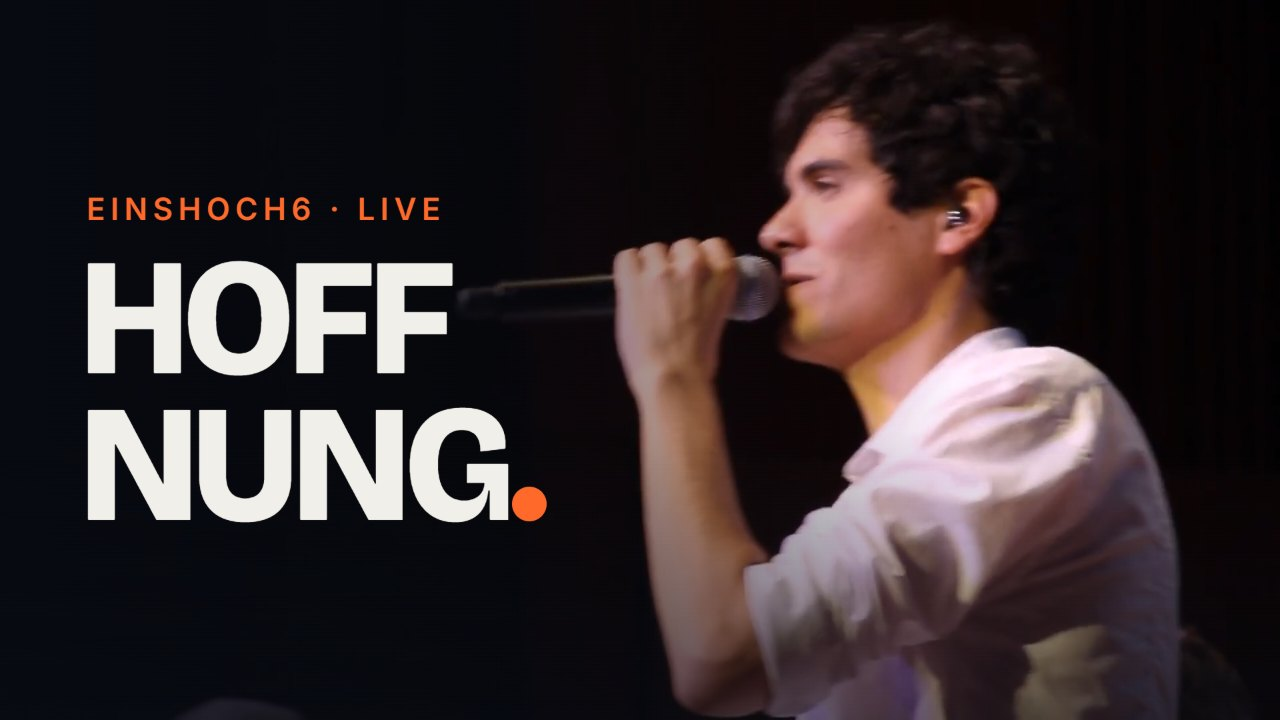
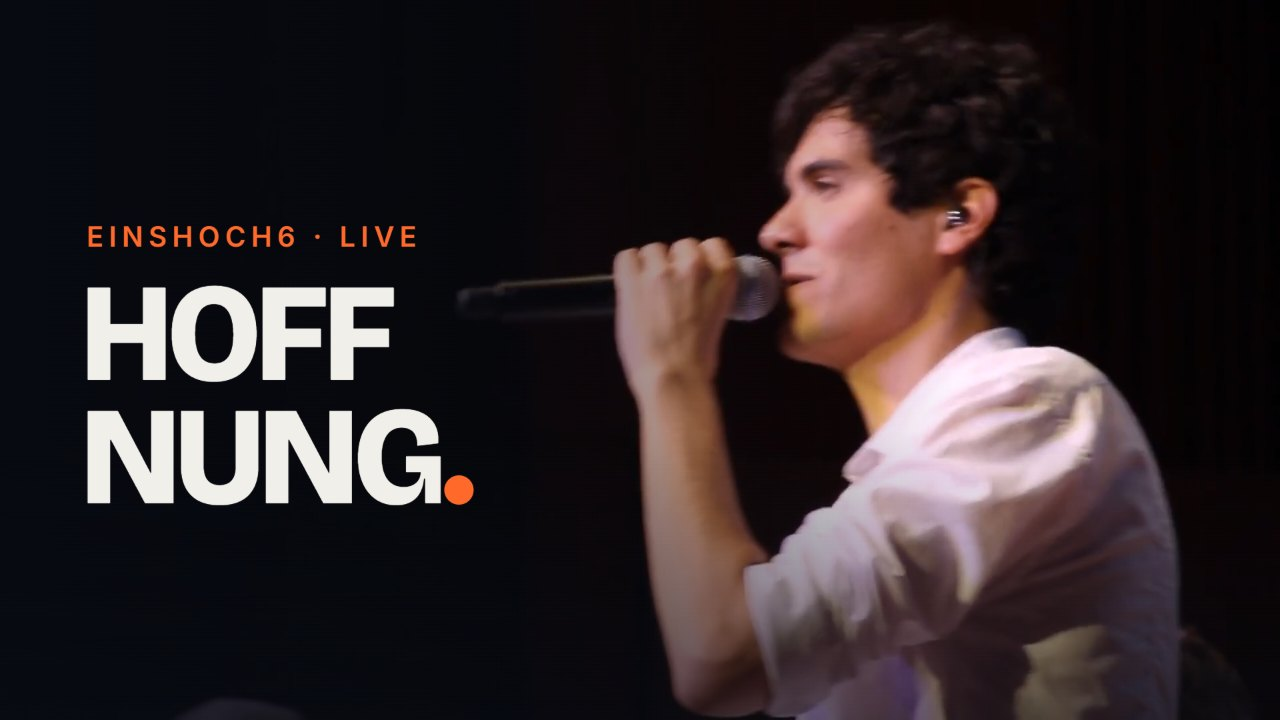
Vorschau aktualisiert (12.11.2026 07:56)

Changed region(s): [[0.0625, 0.275, 0.4375, 0.7333]]

diff --git a/dunkel/main.js b/dunkel/main.js
@@ -60,7 +60,7 @@ const COMMERCIAL_VIDEOS = [
 ];
 
 const BAND_VIDEOS = [
-  { title: "Hoffnung",               meta: "EINSHOCH6 · Live",            youtube: "https://www.youtube.com/watch?v=rsvSo3lRwCA", poster: "bilder/videos/rsvSo3lRwCA-thumbnail.jpg" },
+  { title: "Hoffnung",               meta: "EINSHOCH6 · Live",            youtube: "https://www.youtube.com/watch?v=rsvSo3lRwCA", poster: "bilder/videos/rsvSo3lRwCA-thumbnail.jpg?v=2" },
   { title: "Solang die Erde sich dreht", meta: "EINSHOCH6 · Bandtagebuch (DW)", youtube: "https://www.youtube.com/watch?v=ZhyiKUAW2bA" },
   { title: "Die Stadt springt Tour", meta: "EINSHOCH6 · Live",            youtube: "https://www.youtube.com/watch?v=RmuirsIySFM", poster: "bilder/videos/RmuirsIySFM-thumbnail.jpg" },
 ];

diff --git a/dunkel/index.html b/dunkel/index.html
@@ -302,6 +302,6 @@
   <div class="mini__bar"><span id="miniProg"></span></div>
 </div>
 
-<script src="main.js?v=111"></script>
+<script src="main.js?v=112"></script>
 </body>
 </html>
